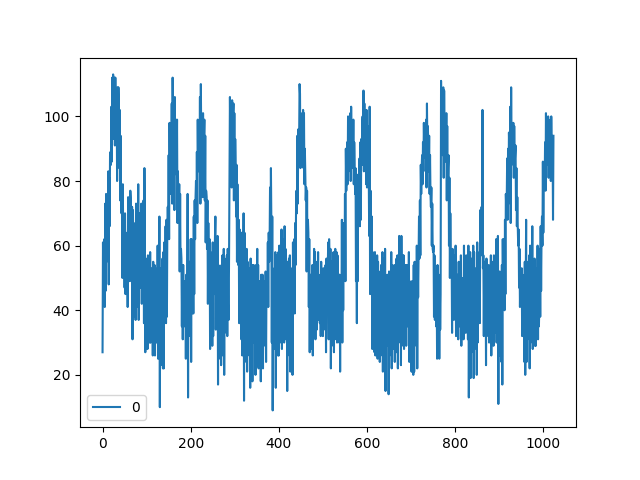
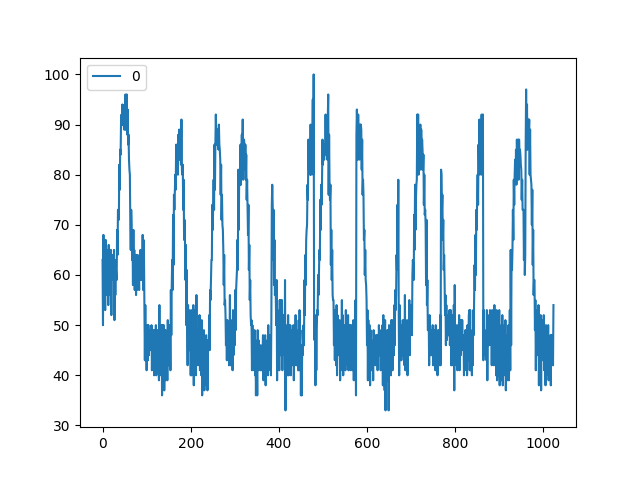
VPED 2.0V in script, 1.78 in board

diff --git a/FMC_TargetC_Prototype/sdk/watchman_final/src/data_analysis.h b/FMC_TargetC_Prototype/sdk/watchman_final/src/data_analysis.h
@@ -36,7 +36,7 @@
 /** @brief Vped value, but in digital (2.5V <=> 2047 -> 1.75V <=> 1434 or 1.25V <=> 1024)*/
 #define VPED_DIGITAL	1434
 /** @brief Vped voltage to set up in DAC (in float)*/
-#define VPED_ANALOG		1.5//1.6 //1.75
+#define VPED_ANALOG		2.0//1.6 //1.75
 /** @brief Threshold voltage to set up in DAC for the comparator of the trigger system (in float)*/
 #define THRESHOLD_CMP_0	1.78  //1.78//1.78 //1.25/** @brief Treshold used to select the gain stage in function correct_data to send (digital value)*/
 
